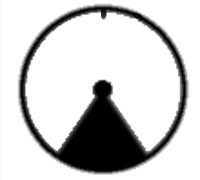
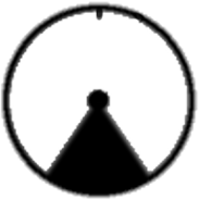
Make angle gauge correct.

Changed region(s): [[0.0, 0.0, 0.995, 1.0], [0.6935, 0.7778, 0.7236, 0.8333]]

diff --git a/gauges.py b/gauges.py
@@ -1,4 +1,4 @@
-import cmath, tkinter as tk, tk_tools
+import cmath, tkinter as tk, tk_tools, numpy as np
 from tk_tools.images import rotary_scale
 
 root = tk.Tk()
@@ -9,7 +9,8 @@ class RotaryScale(tk_tools.RotaryScale):
     """
     def __init__(self, 
         parent=root, max_value=100.0, size=100, unit='', img_data='',
-        needle_color='blue', needle_thickness=0, name='', **options
+        needle_color='blue', needle_thickness=0, name='', 
+        angleDirect=False, **options
         ):
         """
         Initializes the RotaryScale object
@@ -27,6 +28,7 @@ class RotaryScale(tk_tools.RotaryScale):
         self.unit = unit
         self.needle_color = needle_color
         self.needle_thickness = needle_thickness
+        self.angleDirect = angleDirect
 
         row = 0
         if name != '':
@@ -55,7 +57,7 @@ class RotaryScale(tk_tools.RotaryScale):
 
         self.grid()
 
-    def set_value(self, number: float):
+    def set_value(self, number: float, displayValue=None):
         """
         Sets the value of the graphic
 
@@ -66,12 +68,16 @@ class RotaryScale(tk_tools.RotaryScale):
         self.canvas.delete('all')
         self.canvas.create_image(0, 0, image=self.image, anchor='nw')
 
-        number = number if number <= self.max_value else self.max_value
-        number = 0.0 if number < 0.0 else number
+        if not self.angleDirect:
+            number = number if number <= self.max_value else self.max_value
+            number = 0.0 if number < 0.0 else number
 
         radius = 0.9 * self.size/2.0
-        angle_in_radians = (2.0 * cmath.pi / 3.0) \
-            + number / self.max_value * (5.0 * cmath.pi / 3.0)
+        if self.angleDirect:
+            angle_in_radians = number * np.pi / 180
+        else:
+            angle_in_radians = (2.0 * cmath.pi / 3.0) \
+                + number / self.max_value * (5.0 * cmath.pi / 3.0)
 
         center = cmath.rect(0, 0)
         outer = cmath.rect(radius, angle_in_radians)
@@ -88,4 +94,7 @@ class RotaryScale(tk_tools.RotaryScale):
             fill=self.needle_color
         )
 
-        self.readout['text'] = '{:.4g}{}'.format(number, self.unit)
+        self.readout['text'] = '{:.4g}{}'.format(
+            displayValue if displayValue else number,
+            self.unit
+        )

diff --git a/drive.py b/drive.py
@@ -34,7 +34,7 @@ class SimplePIController:
         self.integral = 0.
         self.verbose = False
         self.setPointGauge = RotaryScale(
-            max_value=30, unit='MPH', name='Speed Set Point'
+            max_value=30, unit='MPH', name='Speed Set Point', needle_color='white',
         )
 
     def set_desired(self, desired):
@@ -68,7 +68,9 @@ steeringAngleGauge = RotaryScale(
     max_value=180., 
     unit='°',
     name='Steering Angle',
-    img_data='emptyGauge'
+    img_data='emptyGauge',
+    angleDirect=True,
+    needle_color='red',
 )
 
 from collections import deque
@@ -119,7 +121,8 @@ def telemetry(sid, data):
         setPointSmoother(speedTarget)
 
         steeringAngleGauge.set_value(
-            steering_angle * 180 / 3.14159 + 90.
+            steering_angle * 180 / 3.14159 + 90. + 180,
+            steering_angle * 180 / 3.14159
         )
         throttle = min(controller.update(float(speed)), MAXTHROTTLE)
 
